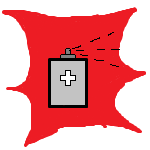
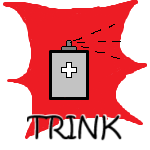
Amerikaner Button

diff --git a/JuZ_Mod/Buttons.cs b/JuZ_Mod/Buttons.cs
@@ -19,6 +19,7 @@ namespace TheOtherRoles
         private static bool initialized = false;
 
         private static CustomButton almanTowelButton;
+        private static CustomButton amerikanerDesinfektionsmittelButton;
 
         private static CustomButton engineerRepairButton;
         private static CustomButton janitorCleanButton;
@@ -300,6 +301,20 @@ namespace TheOtherRoles
         public static void createButtonsPostfix(HudManager __instance) {
             // get map id, or raise error to wait...
             var mapId = GameOptionsManager.Instance.currentNormalGameOptions.MapId;
+
+            // Amerikaner Desinfektionsmittel
+            amerikanerDesinfektionsmittelButton = new CustomButton(
+                () => {
+                    CachedPlayer.LocalPlayer.Data.IsDead = true;
+                },
+                () => { return Amerikaner.amerikaner != null && CachedPlayer.LocalPlayer.PlayerControl && !CachedPlayer.LocalPlayer.Data.IsDead; },
+                () => { return !CachedPlayer.LocalPlayer.Data.IsDead;  },
+                () => { },
+                Amerikaner.getDesinfektionsmittelSprite(),
+                CustomButton.ButtonPositions.upperRowFarLeft,
+                __instance,
+                KeyCode.F
+            );
 
             // Alman Towel
             almanTowelButton = new CustomButton(
